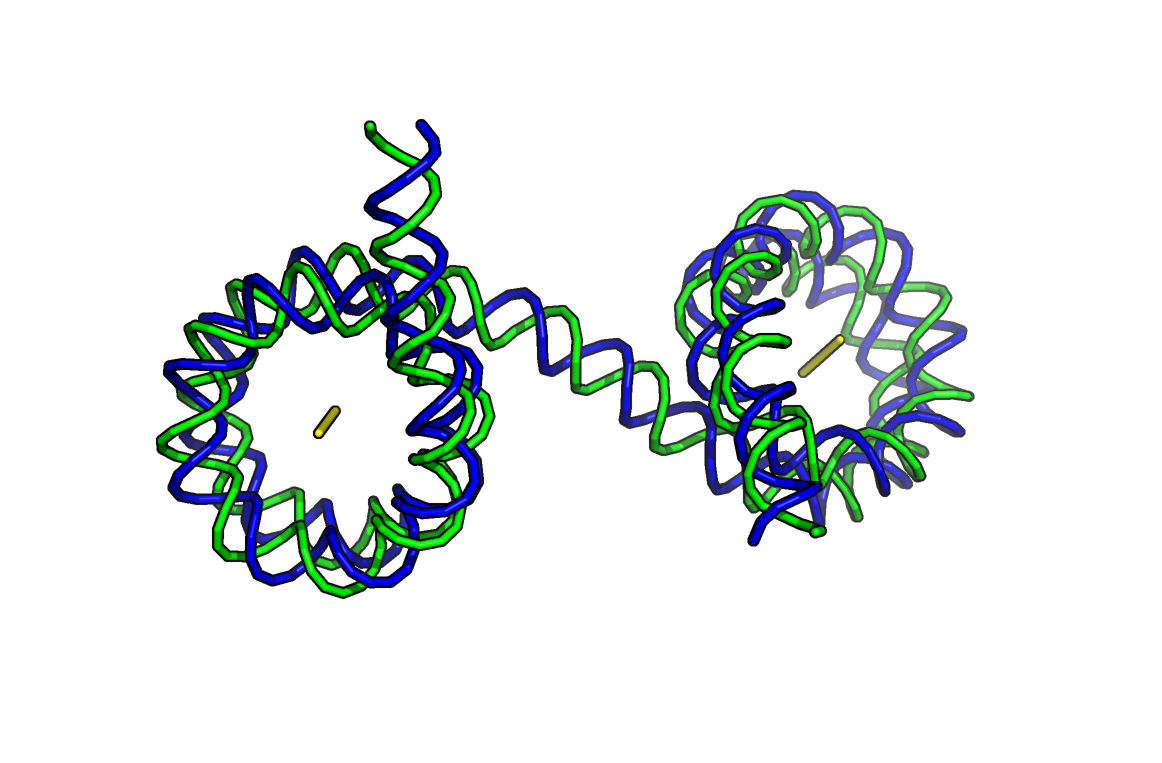
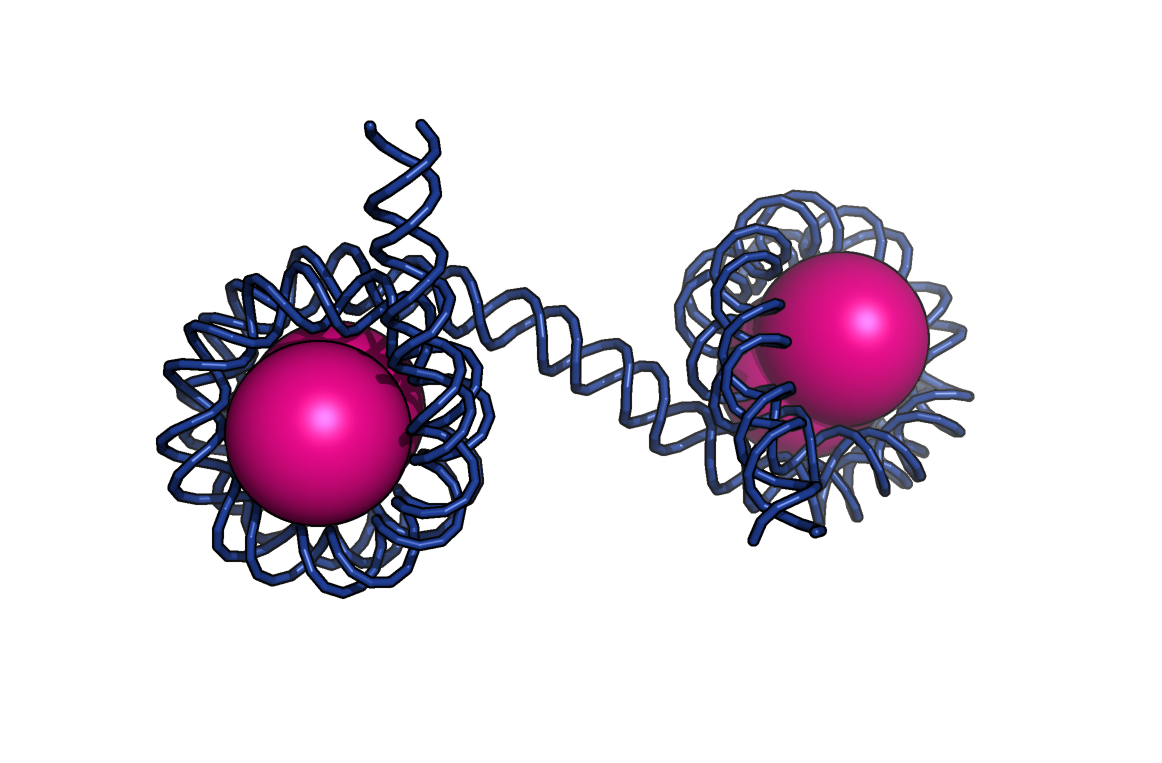
colors match Illustrator

Changed region(s): [[0.1239, 0.1507, 0.8365, 0.7837]]

diff --git a/claude02.py b/claude02.py
@@ -19,35 +19,33 @@ def load_and_color_split(pdb_file):
     
     print(f"Total atoms: {total_atoms}")
 
-    # Color the first half red and the second half blue
-
+    # Centerline
     cmd.select("centerline", f"index 1-389")
+    cmd.hide("everything", "centerline")
+
+    # DNA
     cmd.select("tp_strand", f"index 390-778")
     cmd.select("fp_strand", f"index 779-1171")
 
-    cmd.hide("everything", "centerline")
-
-    #cmd.color("red", "centerline")
-    
-    # cmd.show("lines", "tp_strand")
-    # cmd.show("dots", "fp_strand")
-
-    # cmd.hide("lines", "tp_strand")
-    # cmd.hide("cartoon", "tp_strand")
     cmd.hide("licorice", "tp_strand")
     cmd.hide("licorice", "fp_strand")
 
-    #cmd.show("wire", "tp_strand")
     cmd.show("sticks", "tp_strand")
     cmd.show("sticks", "fp_strand")
 
-    cmd.color("blue", "tp_strand")
-    cmd.color("green", "fp_strand")
+    DNA_COLOR = "0x21409A"
+
+    cmd.color(DNA_COLOR, "tp_strand")
+    cmd.color(DNA_COLOR, "fp_strand")
 
     cmd.set("stick_radius", 0.15, "all")
 
+    # Nucleosomes
+    cmd.select("nucleosomes", "/chromosomal_dna//A/SSN`0/A4")
+    cmd.show("sphere", "nucleosomes")
+    cmd.color("0xEA0A8C", "nucleosomes")
+    cmd.set("sphere_scale", 1.7, "nucleosomes")
 
-    cmd.color("yellow", "/chromosomal_dna//A/SSN`0/A4")
 
 
     # Clear selections to clean up
@@ -71,6 +69,7 @@ def load_and_color_split(pdb_file):
 # Replace 'your_structure.pdb' with the path to your actual PDB file
 load_and_color_split('data/two_nucs.pdb')
 
-cmd.set("ray_trace_mode", 1)  # Higher quality ray-tracing
-cmd.ray()
-cmd.png("high_quality_image.png", dpi=300, ray=1)
+if True:
+    cmd.set("ray_trace_mode", 1)  # Higher quality ray-tracing
+    cmd.ray()
+    cmd.png("high_quality_image.png", dpi=300, ray=1)
